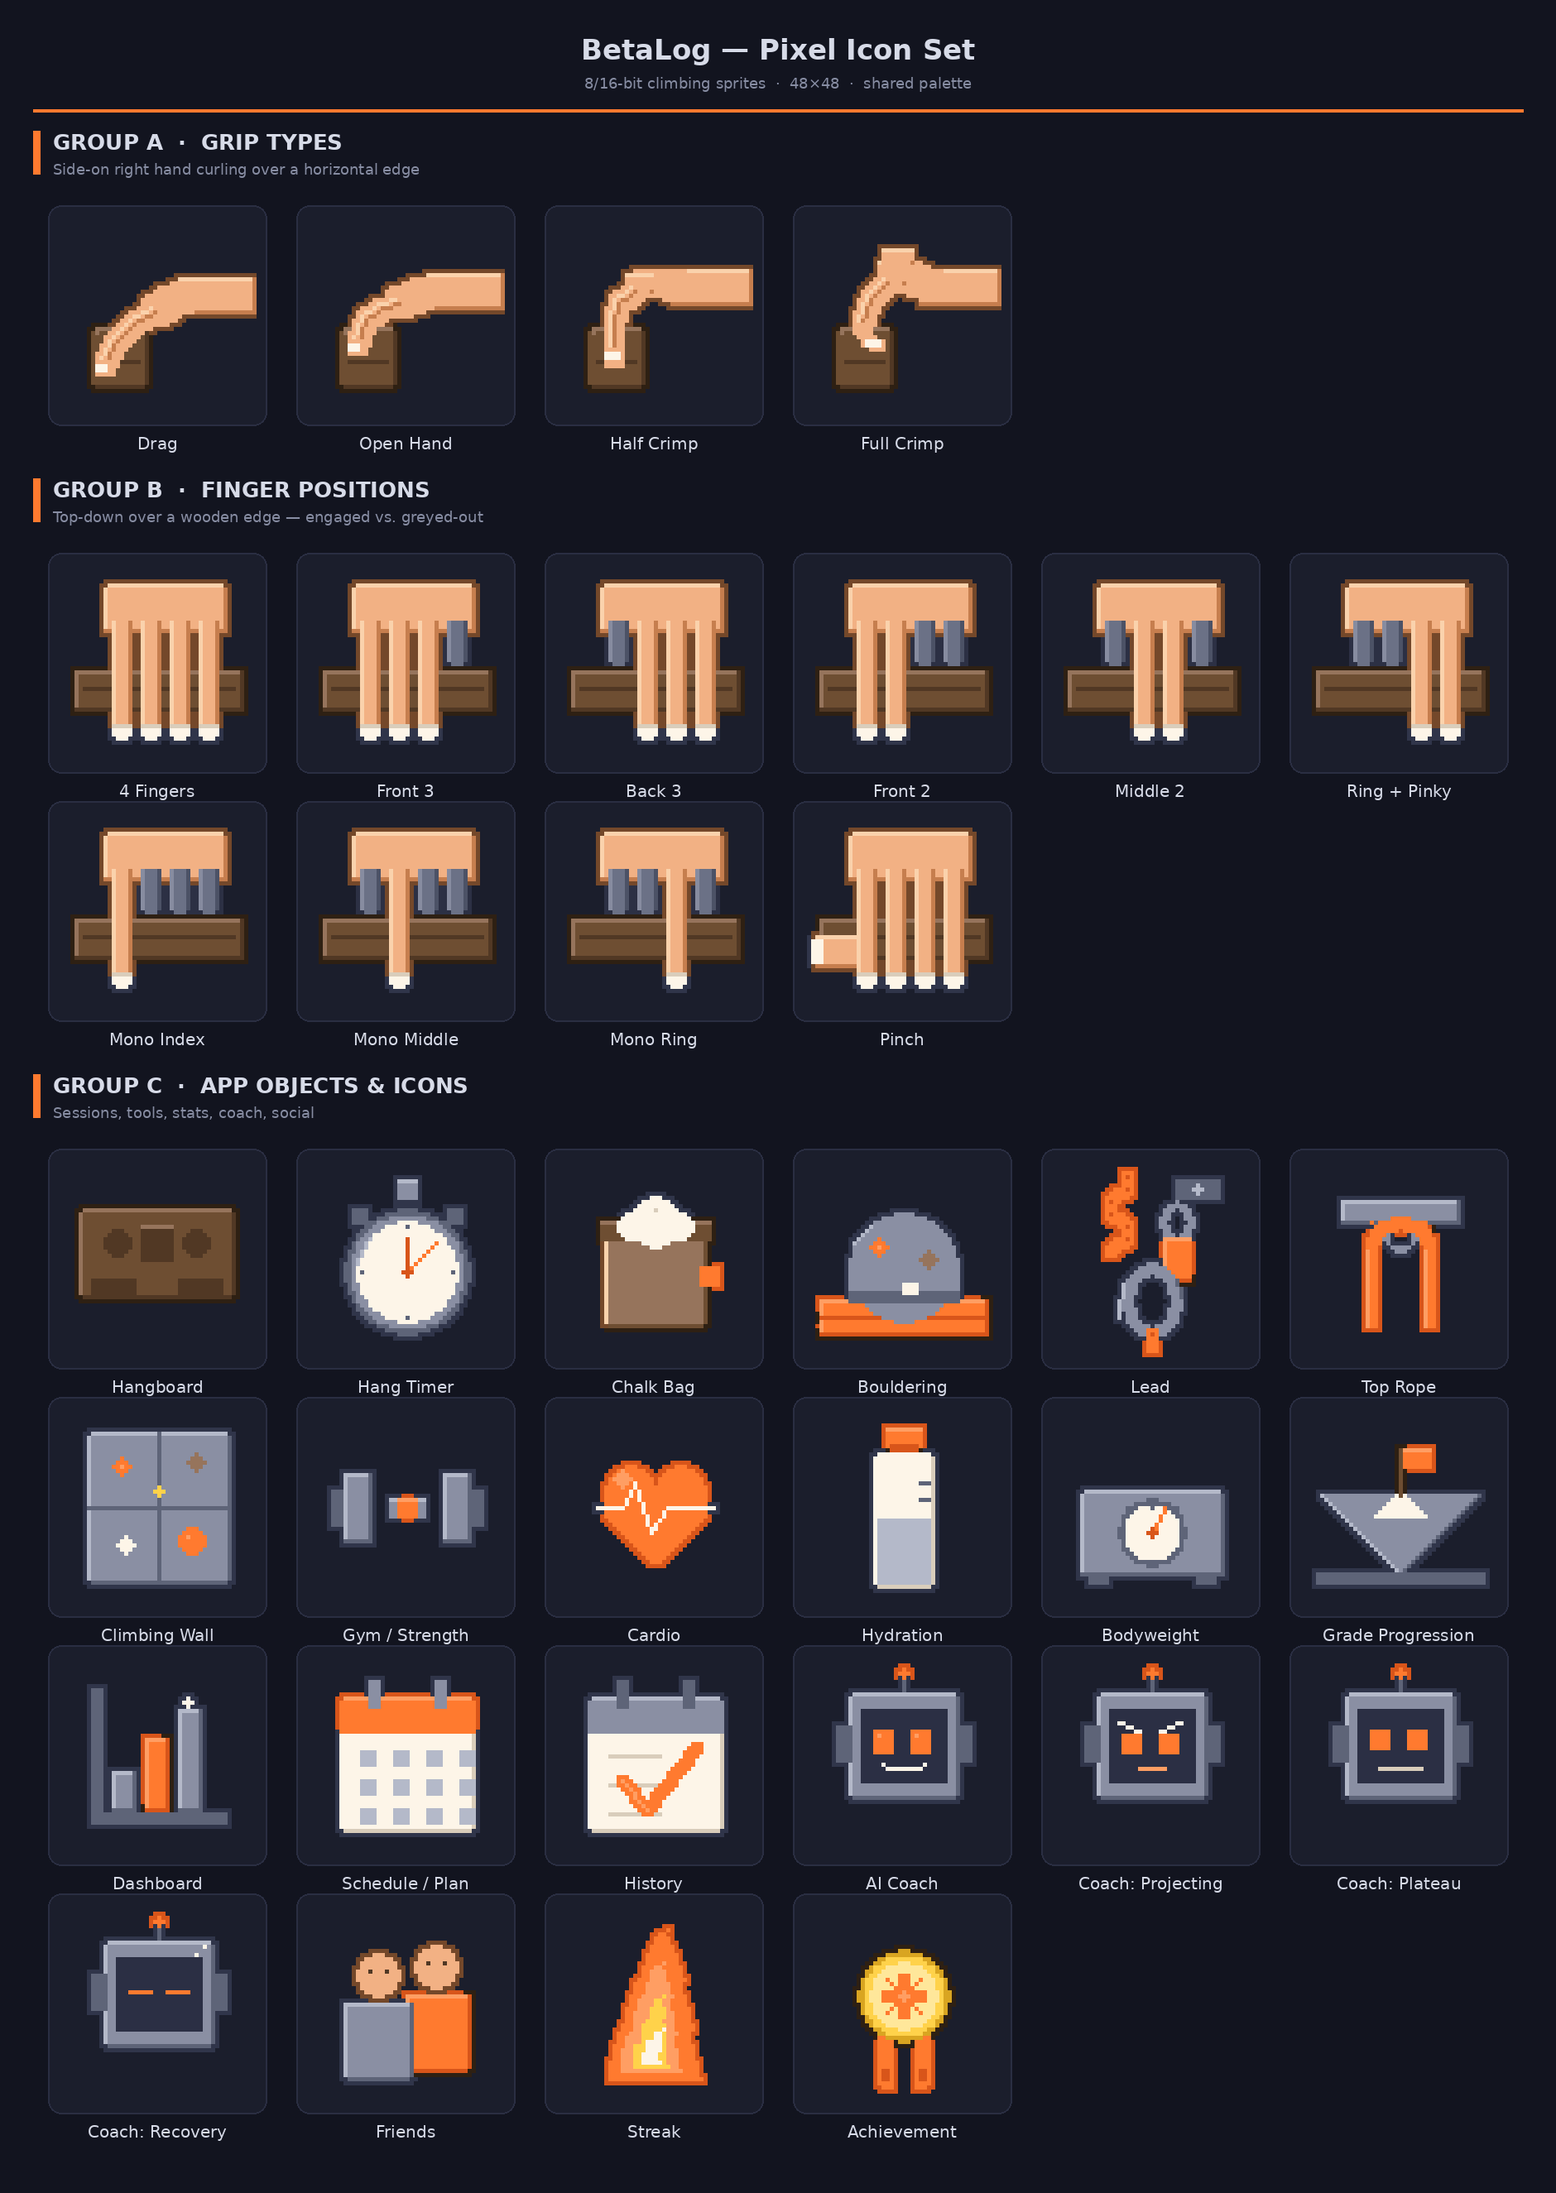
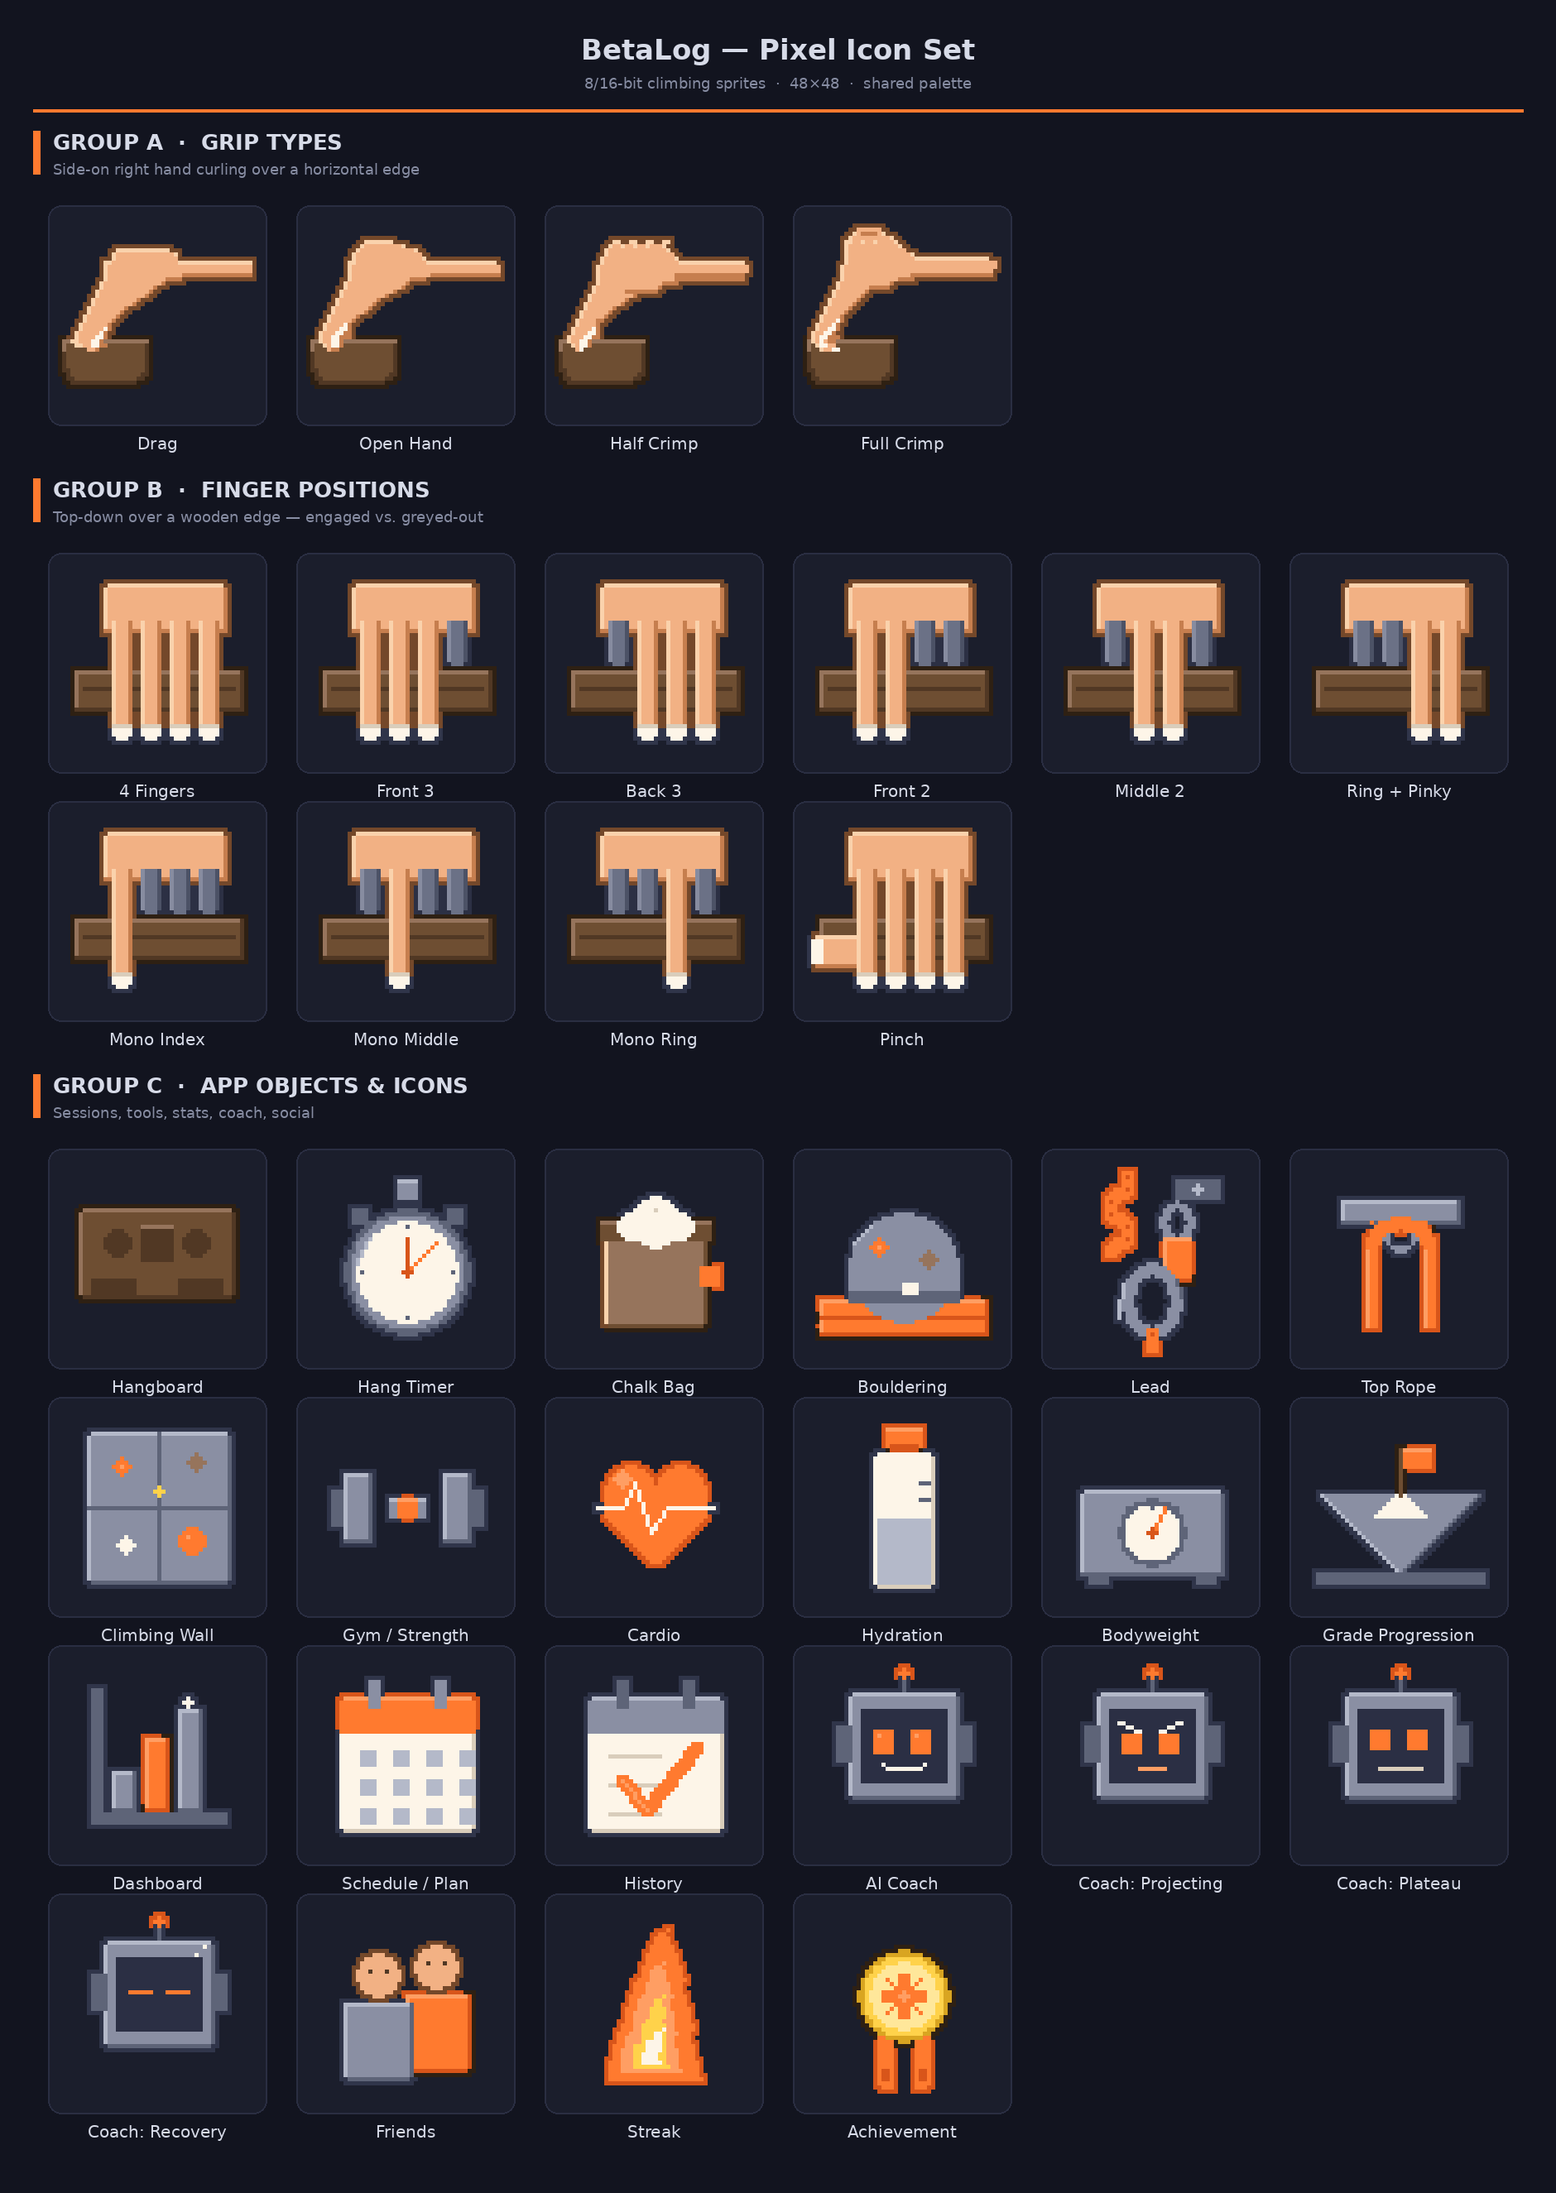
Redraw Group A grip hands as hand-authored pixel maps
The procedural, curve-stamped grip hands read as sausage-arms with a tapering
forearm and a mushy hand/edge junction. Replace them with pixel maps placed by
hand: a constant-width forearm, a knuckle ridge that rises drag -> open -> half
-> full crimp, a finger that curls over the front lip of a shared wooden edge
with a chalk tip, and a thumb wrapping over on the full crimp. Adds a
stamp_map() blitter to the engine for authored maps.

Claude-Session: https://claude.ai/code/session_0149gwC1tWNwzDc56NEoNbiQ

Changed region(s): [[0.0309, 0.0928, 0.3394, 0.1857], [0.4936, 0.0928, 0.6479, 0.1857], [0.3394, 0.0928, 0.4936, 0.1857]]

diff --git a/assets/pixel-icons/sprites.py b/assets/pixel-icons/sprites.py
@@ -23,106 +23,182 @@ def thick(s, pts, rad, c):
 # GROUP A - GRIP TYPES  (side-on right hand over a horizontal edge)
 # ===========================================================================
 
-def _edge(s):
-    """Cross-section of a horizontal climbing edge; grippable face on the left."""
-    s.shade_block(8, 27, 21, 41, WOOD, WOOD, WOOD_LO)
-    # rounded top corners
-    s.px(8, 27, T); s.px(21, 27, T)
-    s.px(8, 41, T); s.px(21, 41, T)
-    # the top lip you grip catches the light
-    s.hline(9, 20, 27, WOOD_HI)
-    s.px(9, 28, WOOD_HI)
-    # grain on the front face
-    s.hline(10, 19, 35, WOOD_LO)
+# Hand-authored pixel maps (placed pixel by pixel, not stamped from curves).
+# Legend: s/l/d skin mid/light/shadow, w/W/k wood body/top/dark, C chalk, . clear.
+_LEG = {".": None, "s": SKIN, "l": SKIN_HI, "d": SKIN_LO,
+        "w": WOOD, "W": WOOD_HI, "k": WOOD_LO, "C": WHITE}
+
+# The wooden edge (rows 33-41) is shared by all four grips so the set reads as
+# one hand curling harder over the same hold.
+_EDGE = [
+    ".kwwwwwwwwwwwwwwwwwwwk...........................",
+    ".kwwwwwwwwwwwwwwwwwwwk...........................",
+    "#kwwwwwwwwwwwwwwwwwwwk...........................",
+    "#kwwwwwwwwwwwwwwwwwwwk...........................",
+    "#kkwwwwwwwwwwwwwwwwwwk...........................",
+    ".#kwwwwwwwwwwwwwwwwwkk...........................",
+    ".#kkwwwwwwwwwwwwwwwkk............................",
+    "..#kkkkkkkkkkkkkkkk#.............................",
+    "...################.............................",
+]
+
+_DRAG = [
+    "................................................",
+    "................................................",
+    "................................................",
+    "................................................",
+    "................................................",
+    "................................................",
+    "................................................",
+    "................................................",
+    "..............lllllllllllll.....................",
+    ".............lssssssssssssssl...................",
+    ".............lsssssssssssssss...................",
+    "...........llssssssssssssssssllllllllllllllllll.",
+    "...........lsssssssssssssssssssssssssssssssssss.",
+    "...........lsssssssssssssssssssssssssssssssssss.",
+    "...........lssssssssssssssssssddddddddddddddddd.",
+    "...........lssssssssssssssdddd..................",
+    "..........lssssssssssssssd......................",
+    "..........lssssssssssssd........................",
+    ".........lssssssssssssd.........................",
+    ".........lsssssssssssd..........................",
+    "........lssssssssssd............................",
+    "........lsssssssssd.............................",
+    ".......lssssssssd...............................",
+    ".......lsssssssd................................",
+    "......lsssssssd.................................",
+    "......lssssssd..................................",
+    ".....lssssssd...................................",
+    ".....lsssssCd...................................",
+    "....lsssssCd....................................",
+    "....lssssCCd....................................",
+    ".WWllsssCCdWWWWWWWWWWW...........................",
+    ".WwwllssCCddwwwwwwwwwk...........................",
+    ".Wwwwwwssdwwwwwwwwwwwk...........................",
+]
+
+_OPEN = [
+    "................................................",
+    "................................................",
+    "................................................",
+    "................................................",
+    "................................................",
+    "................................................",
+    "..............lllllll...........................",
+    ".............lsssssssssl........................",
+    "............lsssssssssssssl.....................",
+    "...........lssssssssssssssss....................",
+    "...........lssssssssssssssssl...................",
+    "..........llssssssssssssssssslllllllllllllllll..",
+    "..........lssssssssssssssssssssssssssssssssssss.",
+    "..........lssssssssssssssssssssssssssssssssssss.",
+    "..........lsssssssssssssssssssddddddddddddddddd.",
+    "..........lssssssssssssssdddd...................",
+    ".........lssssssssssssssd.......................",
+    ".........lsssssssssssssd........................",
+    "........lssssssssssssd..........................",
+    "........lssssssssssd............................",
+    ".......lsssssssssd..............................",
+    ".......lssssssssd...............................",
+    "......lssssssssd................................",
+    "......lsssssssd.................................",
+    ".....lssssssd...................................",
+    ".....lsssssd....................................",
+    "....lssssCd.....................................",
+    "....lsssCCd.....................................",
+    "...lsssCCdd.....................................",
+    "...lssCCddd.....................................",
+    ".WWlssCCdWWWWWWWWWWWWW...........................",
+    ".WwwlsCCdwwwwwwwwwwwwk...........................",
+    ".Wwwwsddwwwwwwwwwwwwwk...........................",
+]
+
+_HALF = [
+    "................................................",
+    "................................................",
+    "................................................",
+    "................................................",
+    "................................................",
+    "................................................",
+    "..............ll..ll..ll..ll....................",
+    ".............lsslsslsslsssl.....................",
+    "............lssssssssssssssl.....................",
+    "............lssssssssssssssss...................",
+    "...........lsssssssssssssssssl..................",
+    "...........lssssssssssssssssssllllllllllllllll..",
+    "..........lssssssssssssssssssssssssssssssssssss.",
+    "..........lssssssssssssssssssssssssssssssssssss.",
+    "..........lssssssssssssssssssddddddddddddddddd..",
+    "..........lssssssssssssssssssddddddddddddddddd..",
+    "..........lsssssssssssssssdddd..................",
+    ".........lsssssssssssssssd......................",
+    ".........lsssssssdddddddd.......................",
+    "........lssssssssssd............................",
+    "........lssssssssd..............................",
+    ".......lssssssssd...............................",
+    ".......lssssssd.................................",
+    "......lssssssd..................................",
+    "......lsssssd...................................",
+    ".....lssssdd....................................",
+    ".....lssssd.....................................",
+    "....lssssCd.....................................",
+    "....lsssCCd.....................................",
+    "...lsssCCdd.....................................",
+    ".WWlssCCdWWWWWWWWWWWWW...........................",
+    ".WwwlsCCdwwwwwwwwwwwwk...........................",
+    ".WwwwsCwwwwwwwwwwwwwwk...........................",
+]
+
+_FULL = [
+    "................................................",
+    "................................................",
+    "................................................",
+    ".............ssssss.............................",
+    "............lsddddsl............................",
+    "...........lsssssssssl..........................",
+    "..........llsslsslssssl.........................",
+    "..........lssssssssssssl........................",
+    "..........lssssssssssssss.......................",
+    "..........lsssssssssssssssl.....................",
+    "..........lssssssssssssssssllllllllllllllllll..",
+    "..........lssssssssssssssssssssssssssssssssssss.",
+    ".........lsssssssssssssssssssssssssssssssssssss.",
+    ".........lssssssssssssssssssssssssssssssssssss..",
+    ".........lssssssssssssssssdddddddddddddddddddd..",
+    ".........lsssssssssssssdddd.....................",
+    "........lssssssssssssd..........................",
+    "........lsssssssddddd...........................",
+    ".......lsssssssd................................",
+    ".......lssssssd.................................",
+    "......lssssssd..................................",
+    "......lsssssd...................................",
+    ".....lsssssd....................................",
+    ".....lssssd.....................................",
+    "....lssssd......................................",
+    "....lsssCd......................................",
+    "...lsssCd.......................................",
+    "...lssCCd.......................................",
+    "..lssCCd........................................",
+    "..lsCCddd.......................................",
+    ".WlsCsddWWWWWWWWWWWWWW...........................",
+    ".WwlCCsswwwwwwwwwwwwwk...........................",
+    ".WwwlssCCwwwwwwwwwwwwk...........................",
+]
 
 
-def _forearm(s, top, bot):
-    """Forearm entering horizontally from the right, tapering to the wrist."""
-    s.shade_block(28, top, 47, bot, SKIN, SKIN_HI, SKIN_LO)
-    s.px(28, top, T)
-
-
-def _chalk(s, x0, y0, x1, y1):
-    s.rect(x0, y0, x1, y1, WHITE)
-    s.hline(x0, x1, y0, WHITE)
-
-
-def _fingerband(s, pts, groove=True):
-    thick(s, pts, 2, SKIN)
-    # top-left highlight and a knuckle/finger groove down the middle
-    hi = [(x - 1, y - 1) for (x, y) in pts]
-    for i in range(len(hi) - 1):
-        s.line(hi[i][0], hi[i][1], hi[i + 1][0], hi[i + 1][1], SKIN_HI)
-    if groove:
-        for i in range(len(pts) - 1):
-            s.line(pts[i][0], pts[i][1], pts[i + 1][0], pts[i + 1][1], SKIN_LO)
-
-
-def grip_drag():
+def _grip(top_rows):
+    rows = top_rows + _EDGE
     s = Sprite()
-    _edge(s)
-    _forearm(s, 15, 23)
-    # low knuckle: back of the hand barely rises above the edge
-    thick(s, [(30, 19), (26, 21), (23, 23)], 3, SKIN)
-    # long, nearly-straight fingers draped low over the rounded edge and down the front
-    _fingerband(s, [(23, 23), (18, 26), (13, 31), (11, 36)])
-    # fingertip pad on the front face + chalk
-    s.rect(9, 35, 12, 38, SKIN)
-    _chalk(s, 9, 36, 11, 37)
+    s.stamp_map(0, 0, [(r + "." * 48)[:48] for r in rows], _LEG)
     s.outline()
     return s
 
 
-def grip_open():
-    s = Sprite()
-    _edge(s)
-    _forearm(s, 14, 22)
-    # gentle arch, mild knuckle
-    thick(s, [(30, 18), (26, 19), (22, 21)], 3, SKIN)
-    # fingers arch over the rounded edge, fingertips resting on the front
-    _fingerband(s, [(22, 21), (18, 22), (14, 25), (12, 31)])
-    s.rect(10, 30, 13, 33, SKIN)
-    _chalk(s, 10, 31, 12, 32)
-    s.outline()
-    return s
-
-
-def grip_halfcrimp():
-    s = Sprite()
-    _edge(s)
-    _forearm(s, 13, 21)
-    # raised knuckle ridge = the high point (bent ~90 at the PIP)
-    thick(s, [(31, 17), (26, 16), (22, 16)], 3, SKIN)
-    s.rect(17, 14, 23, 19, SKIN)                # knuckle block, high point
-    s.hline(17, 23, 14, SKIN_HI)
-    s.px(23, 18, SKIN_LO)
-    # fingers turn over the top then drop straight down the front face
-    _fingerband(s, [(19, 18), (15, 21), (14, 27), (14, 33)])
-    s.rect(12, 32, 16, 36, SKIN)
-    _chalk(s, 12, 33, 15, 34)
-    s.outline()
-    return s
-
-
-def grip_fullcrimp():
-    s = Sprite()
-    _edge(s)
-    _forearm(s, 13, 21)
-    # knuckles stacked high
-    thick(s, [(31, 17), (27, 15), (23, 14)], 3, SKIN)
-    s.rect(18, 11, 24, 17, SKIN)               # high stacked knuckle
-    s.hline(18, 24, 11, SKIN_HI)
-    s.px(24, 16, SKIN_LO)
-    # thumb wrapping over the top of the index finger
-    s.rect(19, 8, 26, 12, SKIN)
-    s.hline(19, 26, 8, SKIN_HI)
-    s.px(26, 11, SKIN_LO)
-    # steep front section, fingertip curled under the lip of the edge
-    _fingerband(s, [(20, 16), (16, 20), (14, 26)])
-    thick(s, [(14, 27), (15, 30), (18, 31)], 1, SKIN)   # tip hooks back under the lip
-    _chalk(s, 15, 30, 18, 31)
-    s.outline()
-    return s
+def grip_drag():       return _grip(_DRAG)
+def grip_open():       return _grip(_OPEN)
+def grip_halfcrimp():  return _grip(_HALF)
+def grip_fullcrimp():  return _grip(_FULL)
 
 
 # ===========================================================================

diff --git a/assets/pixel-icons/engine.py b/assets/pixel-icons/engine.py
@@ -186,6 +186,15 @@ class Sprite:
         for (x, y), c in adds.items():
             self.buf[y][x] = c
 
+    # -- authored pixel maps ------------------------------------------------
+    def stamp_map(self, ox, oy, rows, legend):
+        """Blit an authored pixel map (list of equal-length strings)."""
+        for j, line in enumerate(rows):
+            for i, ch in enumerate(line):
+                c = legend.get(ch)
+                if c is not None:
+                    self.px(ox + i, oy + j, c)
+
     # -- export -------------------------------------------------------------
     def image(self, scale=1):
         img = Image.new("RGBA", (self.n, self.n), T)
